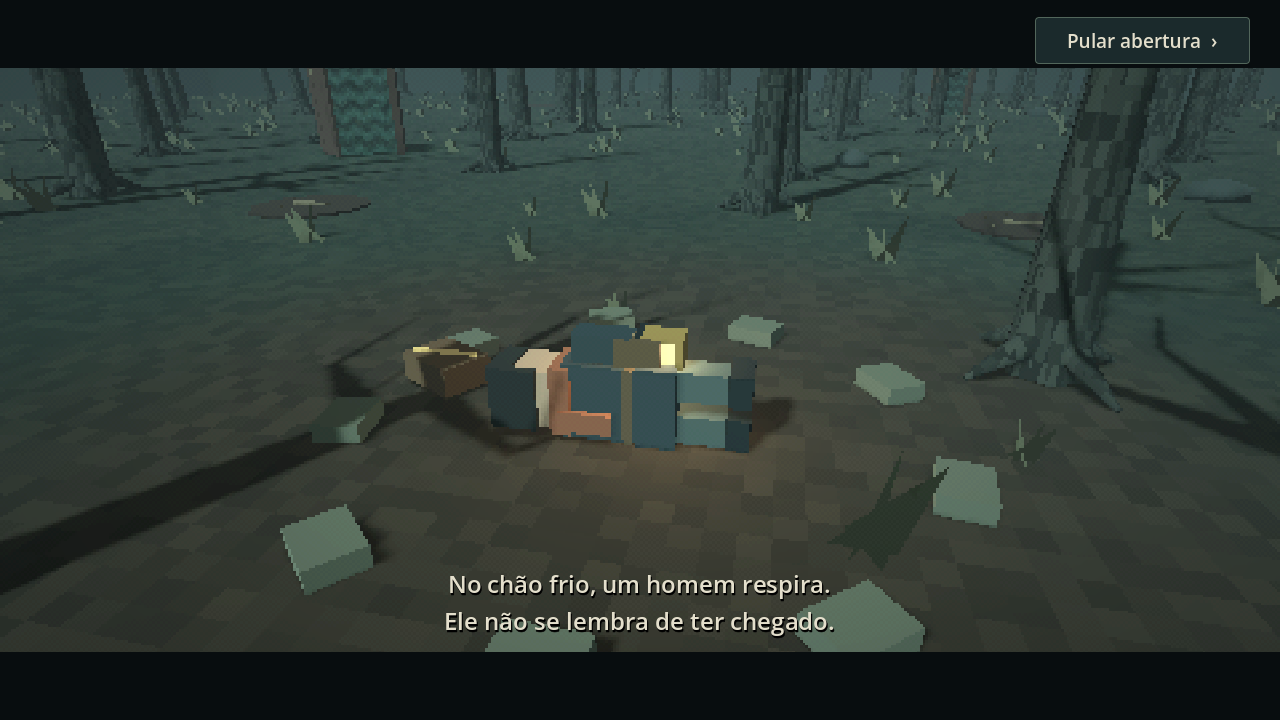
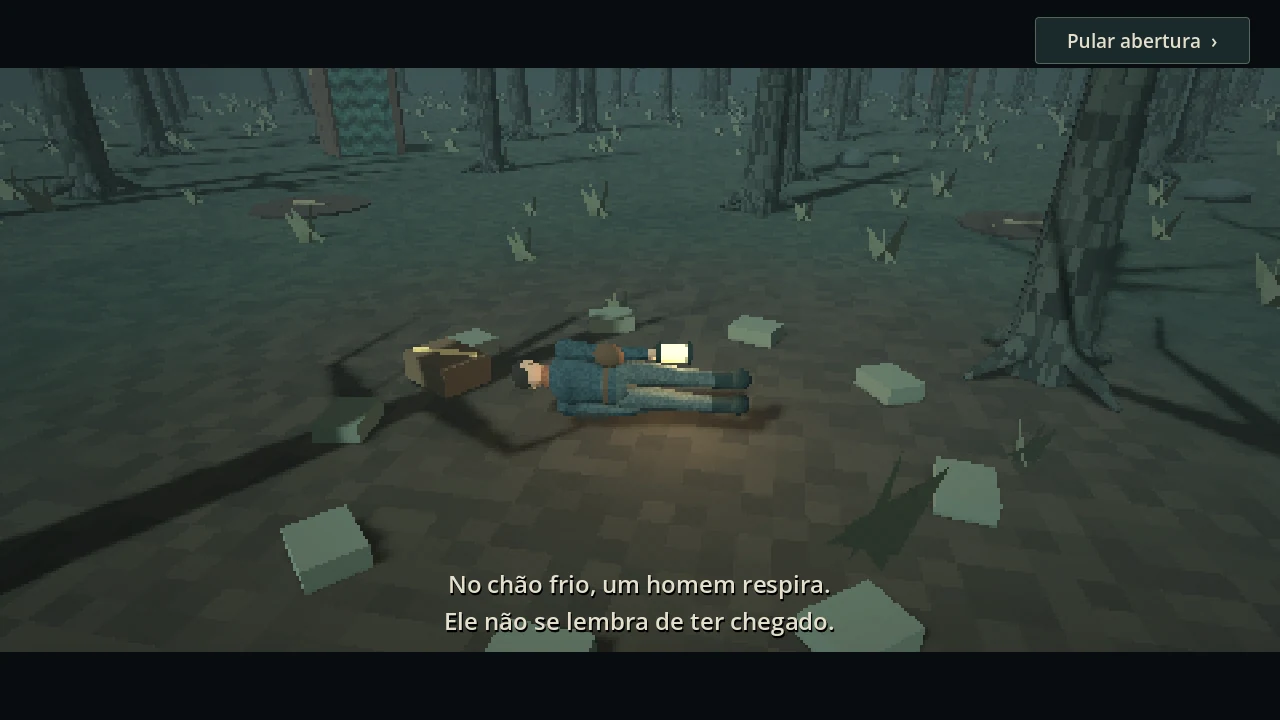
Document Android crash reproduction and real human-character captures

Changed region(s): [[0.375, 0.4278, 0.625, 0.6417]]

diff --git a/docs/VERIFICATION.md b/docs/VERIFICATION.md
@@ -1,27 +1,24 @@
-# Verificação da versão 0.2 — Deixe um sinal
+# Verificação da versão 0.3 — O viajante
 
-Release: **v0.2.0-build.5** · versão Android **1005** · pacote `online.b5solucoes.thelastlinea.preview`.
-Código compilado: `c8d0d7d01fca720929e6cce4364393e8d95e1ed5`.
+## Falha anterior e correções
 
-## Resultados observados
+O APK público **v0.2.0-build.5 / 1005** foi instalado e aberto em Android 15, imagem Google APIs x86_64 com tradução ARM64. O processo fechou durante a abertura, com `SIGSEGV` na thread `AudioTrack`.
 
-- [GitHub Actions](https://github.com/emanoelb5-lgtm/the-last-Linea/actions/runs/42074160508): **success**. O workflow gerou, verificou e publicou o APK e o manifesto.
-- **47 verificações de integração do jogo**, sem falhas. Além do movimento, portas, montanha em oito direções, salvamento e final, cobrem corte com recompensa somente ao terminar, pausa da ação, cancelamento por dano, desarme com duração e proteção da câmera durante a suavização.
-- **3 testes de preparação de release**, sem falhas: propagação da versão informada, recompilação sem duplicar dados de assinatura e rejeição de metadados inválidos.
-- Leitura de progresso no formato anterior: vida, XP, marcas, memórias, armadilhas, montanha e posição continuam compatíveis. O esquema de salvamento continua na versão 1.
-- O verificador do APK no Actions confirmou assinatura v2, identificação como jogo, orientação horizontal, ARM64, versões do Android e presença da ponte nativa de instalação.
-- O arquivo publicado foi baixado separadamente e teve tamanho e SHA-256 comparados com `update.json`.
-- O atualizador real do jogo, executado no Godot desktop simulando o build anterior **1004**, encontrou a versão **1005**, baixou todo o APK e confirmou o SHA-256. O teste utilizou a rede do ambiente de desenvolvimento; nenhum proxy foi incorporado ao aplicativo.
-- Capturas reais da aproximação, corte e marca concluída foram renderizadas em **1280 × 720 (16:9)**. O gesto, a barra de progresso, o destaque e a recompensa são parte do jogo.
+- Primeira reprodução: [Actions 42081518721](https://github.com/emanoelb5-lgtm/the-last-Linea/actions/runs/42081518721). O backend gráfico antigo do emulador também apresentava erros de compilação de shaders.
+- Segunda reprodução usando ANGLE/SwiftShader: [Actions 42083219483](https://github.com/emanoelb5-lgtm/the-last-Linea/actions/runs/42083219483). Os erros de shader desapareceram, mas o fechamento no áudio permaneceu.
+- A resolução dos endereços com os símbolos oficiais correspondentes da engine apontou `AudioStreamPlaybackResampled::mix`, `audio_stream.cpp:222`, chamado por `AudioServer::_mix_step`, `_driver_process` e `AudioDriverOpenSL::_buffer_callback`: [diagnóstico de símbolos](https://github.com/emanoelb5-lgtm/the-last-Linea/actions/runs/42084696523).
 
-APK publicado: **73767219 bytes**.
+A versão 0.3 substitui os buffers WAV sintetizados durante a abertura por assets Ogg a 48 kHz, começa a ambientação após o primeiro quadro e garante tamanho válido para o SubViewport antes de adicioná-lo à cena. A vinheta também passou a usar limites de `smoothstep` em ordem definida. Isso não identifica, por si só, a causa exata em um telefone físico sem seu log.
 
-```text
-SHA-256: 8cc695ebf5ba429138afa7ba52f79bdd1bf5e2d1a56be1ff3bc0c5003dd8ed5b
-```
+## Verificações do código e do visual
 
-## Teste físico pendente
+- **52 verificações de integração**, sem falhas: exploração, portas, montanha em oito direções, armadilhas, corte, desarme, pausa, câmera, capítulo, salvamentos e atualizador; incluem dimensões iniciais válidas, rig humano, normais das malhas e importação do áudio.
+- **3 testes de preparação de release**, sem falhas.
+- Capturas reais renderizadas em OpenGL, **1280 × 720 (16:9)**: abertura, exploração, corte, marca, porta, configurações e personagem visto de frente. O corpo usa volumes afunilados, rosto oval, mãos, polegares, cotovelos e joelhos; o aspecto pixelado vem da renderização e dos materiais.
+- Mesmo esquema de salvamento (1), pacote `online.b5solucoes.thelastlinea.preview` e identidade de assinatura de teste das versões anteriores.
 
-Não houve acesso a um telefone Android físico. A instalação pelo sistema, a atualização de 1004 para 1005 sem desinstalar e o desempenho/temperatura no Galaxy A56 ainda precisam ser conferidos no aparelho. Os testes no Godot desktop e a verificação do APK não comprovam FPS no telefone.
+## Publicação Android
 
-A mesma identidade de assinatura de teste e o mesmo ID de pacote foram mantidos. Não desinstale a versão anterior se quiser preservar os dados locais ao atualizar.
+O workflow instala e executa o próprio APK ARM64 antes de publicar. Exige o primeiro quadro renderizado, toca no botão de novo jogo, espera a cutscene e a exploração, envia movimento por toque e volta do segundo plano sem recriar o processo. Logs e capturas são preservados nos artefatos. A versão não é publicada se essa etapa falhar.
+
+O desempenho e a instalação no Galaxy A56 físico continuam pendentes. Emulação com tradução ARM64 não mede FPS, temperatura nem o comportamento de todos os drivers reais.

diff --git a/README.md b/README.md
@@ -7,7 +7,7 @@ Criação: **Emanuel Bonfim / B5 Soluções**.
 
 [**Baixar o APK mais recente**](https://github.com/emanoelb5-lgtm/the-last-Linea/releases/latest/download/TheLastLinea.apk) · [Releases](https://github.com/emanoelb5-lgtm/the-last-Linea/releases) · [Compilações no Actions](https://github.com/emanoelb5-lgtm/the-last-Linea/actions/workflows/android.yml)
 
-![Captura real do capítulo I](docs/screenshots/04-porta.webp)
+![Personagem humano do capítulo I, renderizado no jogo](docs/screenshots/08-personagem-humano.webp)
 
 [Ver a abertura](docs/screenshots/02-abertura.webp) · [Ver a exploração](docs/screenshots/03-exploracao.webp) · [Ver a animação de corte](docs/screenshots/06-riscando.webp) · [Ver a marca concluída](docs/screenshots/07-marca.webp)
 
